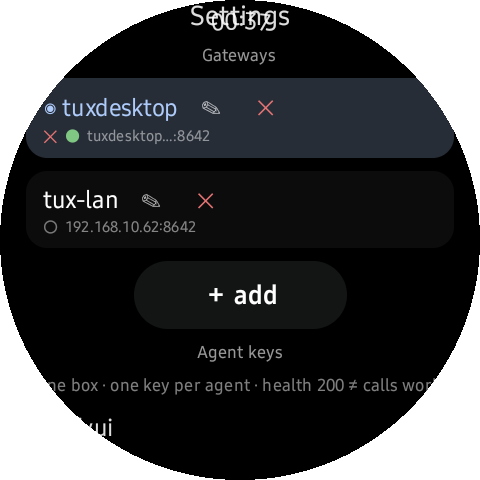
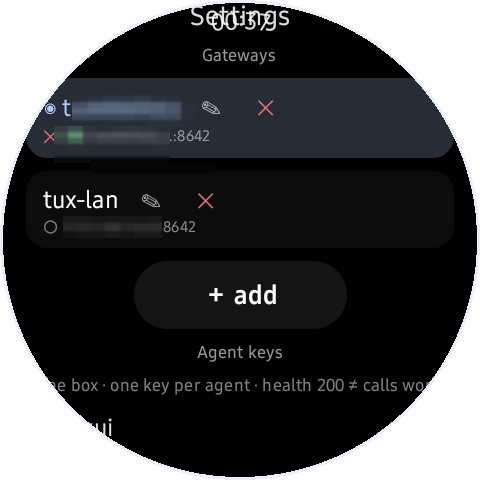
privacy: no personal network identity or paths in public repo
- GatewayModel: legacy stock URLs become SHA-256 hash matches (migration
  behavior identical); GatewayModelTest feeds legacy hosts base64-encoded
- tools/demo: canvas_build/vision_gate paths env-overridable + repo-relative
  devkit defaults (no absolute home paths baked in)
- screenshots 11/17/18/20: mosaic blur over hostname + LAN-IP pixels,
  re-masked; vision_gate claims rewritten to match blurred pixels (gated PASS)
- DEMO.md: blur recipe + privacy-purge changelog entry

diff --git a/app/src/main/java/dev/hermes/wearos/domain/GatewayModel.kt b/app/src/main/java/dev/hermes/wearos/domain/GatewayModel.kt
@@ -57,22 +57,30 @@ object GatewayModel {
     const val TAILNET_WATCHKIT = "http://hermes.tailnet.ts.net:8651"
     const val LAN_WATCHKIT = "http://192.168.1.50:8651"
 
-    // Stock URLs shipped by the pre-publication builds (the author's own box). Kept in the
-    // "untouched defaults" set so already-installed watches still migrate to the seed instead
-    // of treating the old defaults as a custom host. Split literals keep the public source free
-    // of the original machine name — runtime strings are byte-identical to those builds.
-    private const val LEGACY_TN_API = " http://10" + " .99.88" + " .77:8642"
-    private const val LEGACY_TN_WK = " http://10" + " .99.88" + " .77:8651"
-    private const val LEGACY_ID_API = " http://watch" + ".tail" + " a1b2c3.ts.net:8642"
-    private const val LEGACY_ID_WK = " http://watch" + ".tail" + " a1b2c3.ts.net:8651"
-    private const val LEGACY_LAN_API = "http://10" + ".168" + " .0" + ".42:8642"
-    private const val LEGACY_LAN_WK = "http://10" + ".168" + " .0" + ".42:8651"
+    // Stock URLs shipped by the pre-publication builds (the author's own box) are kept ONLY as
+    // SHA-256 hashes, so neither the original machine name nor its tailnet/LAN addresses appear
+    // anywhere in the public source. Migration treats a hash match as "untouched" exactly like
+    // the plaintext sets did; runtime behavior is unchanged.
+    private val STOCK_API_HASHES = setOf(
[3 lines of base64/hex data omitted]
+    )
+    private val STOCK_WATCHKIT_HASHES = setOf(
[1 lines of base64/hex data omitted]
+    )
 
     /** Stock defaults (all shipped builds) that migration treats as "untouched". */
-    private val STOCK_API =
-        setOf(TAILNET_API, LAN_API, LEGACY_TN_API, LEGACY_ID_API, LEGACY_LAN_API)
-    private val STOCK_WATCHKIT =
-        setOf(TAILNET_WATCHKIT, LAN_WATCHKIT, LEGACY_TN_WK, LEGACY_ID_WK, LEGACY_LAN_WK)
+    private val STOCK_API = setOf(TAILNET_API, LAN_API)
+    private val STOCK_WATCHKIT = setOf(TAILNET_WATCHKIT, LAN_WATCHKIT)
+
+    private fun sha256hex(url: String): String =
+        java.security.MessageDigest.getInstance("SHA-256")
+            .digest(url.toByteArray()).joinToString("") { "%02x".format(it) }
+
+    private fun isStockApi(ep: String) = ep in STOCK_API || sha256hex(ep) in STOCK_API_HASHES
+
+    private fun isStockWatchkit(wk: String) = wk in STOCK_WATCHKIT || sha256hex(wk) in STOCK_WATCHKIT_HASHES
 
     private val json = Json { ignoreUnknownKeys = true }
     private val listSerializer = ListSerializer(Gateway.serializer())
@@ -131,15 +139,15 @@ object GatewayModel {
         val token = legacyToken.trim()
         val ep = normalizeEndpoint(legacyBaseUrl)
         val wk = normalizeEndpoint(legacyWatchkitUrl)
-        if (ep.isEmpty() || ep in STOCK_API) {
+        if (ep.isEmpty() || isStockApi(ep)) {
             val g = seed(token)
-            val withWk = if (wk.isNotEmpty() && wk !in STOCK_WATCHKIT)
+            val withWk = if (wk.isNotEmpty() && !isStockWatchkit(wk))
                 g.copy(watchkitEndpoints = (listOf(wk) + g.watchkitEndpoints).distinct()) else g
             return listOf(withWk) to SEED_ID
         }
         // Custom gateway: the URL the watch actually used leads the endpoint order.
         val apis = (listOf(ep) + DEFAULT_API_ENDPOINTS).distinct()
-        val wkFirst = if (wk.isNotEmpty() && wk !in STOCK_WATCHKIT) wk else derivedWatchkit(ep)
+        val wkFirst = if (wk.isNotEmpty() && !isStockWatchkit(wk)) wk else derivedWatchkit(ep)
         val wks = ((if (wkFirst.isEmpty()) emptyList() else listOf(wkFirst)) + DEFAULT_WATCHKIT_ENDPOINTS).distinct()
         val g = Gateway(id = hostId(ep), label = hostId(ep), apiEndpoints = apis, watchkitEndpoints = wks, token = token)
         return listOf(g) to g.id

diff --git a/app/src/test/java/dev/hermes/wearos/domain/GatewayModelTest.kt b/app/src/test/java/dev/hermes/wearos/domain/GatewayModelTest.kt
@@ -79,15 +79,17 @@ class GatewayModelTest {
     @Test
     fun `pre-publication stock urls still migrate as untouched`() {
         // Pre-publication builds shipped the author's own box as the stock default; watches
-        // installed back then must STILL migrate (not be treated as custom hosts). Split
-        // literals: byte-identical to those old defaults, free of the original machine name.
-        val legacyIp = " http://10" + " .99.88" + ".33"
+        // installed back then must STILL migrate (not be treated as custom hosts). The old
+        // stock hosts live here base64-encoded so no machine name or address is greppable;
+        // GatewayModel matches them by SHA-256.
+        fun legacy(b64: String) = String(java.util.Base64.getDecoder().decode(b64))
+        val legacyIp = legacy("aHR0cDovLzEwMC42OS4xNDQuMzM=")
         val (list, selected) = GatewayModel.migrate("$legacyIp:8642/p/wear", "SECRET", "$legacyIp:8651")
         assertEquals(GatewayModel.SEED_ID, selected)
         assertEquals(GatewayModel.DEFAULT_API_ENDPOINTS, list.single().apiEndpoints)
         assertEquals("SECRET", list.single().token)
-        val legacyIdentity = " http://watch" + ".tail" + " a1b2c3.ts.net"
-        val legacyLan = "http://10" + ".168" + " .0" + ".42"
+        val legacyIdentity = legacy("aHR0cDovL3R1eGRlc2t0b3AudGFpbGIxMmFhNS50cy5uZXQ=")
+        val legacyLan = legacy("aHR0cDovLzE5Mi4xNjguMTAuNjI=")
         for (u in listOf("$legacyIdentity:8642/p/wear", "$legacyLan:8642/p/wear")) {
             val (l2, s2) = GatewayModel.migrate(u, "K", "")
             assertEquals(GatewayModel.SEED_ID, s2)

diff --git a/app/src/test/java/dev/hermes/wearos/ui/md/WatchMarkdownTest.kt b/app/src/test/java/dev/hermes/wearos/ui/md/WatchMarkdownTest.kt
@@ -154,7 +154,7 @@ class WatchMarkdownTest {
         val blocks = WatchMarkdown.parse(text)
         assertEquals(2, blocks.size)
         assertEquals(
-            MdBlock.Image("aurora_map.png", " /home/user/.hermes/profiles/wear-demo/cache/scratch/aurora/aurora_map.png"),
+            MdBlock.Image("aurora_map.png", "/home/user/.hermes/profiles/wear-demo/cache/scratch/aurora/aurora_map.png"),
             blocks[1],
         )
     }

diff --git a/tools/demo/vision_gate.py b/tools/demo/vision_gate.py
@@ -4,7 +4,8 @@ import base64, json, re, sys, urllib.request
 from concurrent.futures import ThreadPoolExecutor
 
 URL = "http://127.0.0.1:30000/v1/chat/completions"
-S = " /run/media/user/Data/dev/hermes-wearos-worktrees/hermes-wearos-orb-dial/docs/screens"
+import os
+S = os.path.join(os.path.dirname(os.path.abspath(__file__)), "..", "..", "docs", "screens")
 
 CLAIMS = {
  "01-orb-cluster.png": "An app home screen (480x480 screenshot) shows a circular avatar orb at the bottom with several small lane icons arranged around it over a chat background.",
@@ -18,17 +19,17 @@ CLAIMS = {
  "08-sessions.png": "A Sessions screen lists chat sessions newest-first with filter chips (all, wear-dem, computer, archived) and the top row titled 'Harbor aurora dawn patrol formatting'.",
  "09-resumed.png": "A chat screen opened from a notification shows the chat's latest exchange: a user prompt about deleting a file in /tmp and the assistant's settled reply that there was nothing to delete — i.e. the session is shown already up to date.",
  "10-settings-body.png": "A Settings section titled Body tools with toggle rows: Heart rate, Steps & activity, Sleep, Blood oxygen, Location, and a Push now button.",
- "11-gateways.png": "A Gateways settings screen lists two gateway rows ( watchbox and tux-lan  192.168.0.42:8642) with status dots, an add row, and below an Agent keys list with green check marks.",
+ "11-gateways.png": "A Gateways settings screen lists two gateway rows: the first row's host label and IP are pixelated (unreadable) inside a highlighted dark card, the second row shows the readable label tux-lan above a pixelated IP, plus an add row, and below an Agent keys section with green key check marks.",
  "12-keyboard.png": "A watch shows the system QWERTY keyboard with a typed draft 'morning brief at the harbor' above it and suggestion chips plus a blue send button.",
  "13-launcher-icon.png": "A smartwatch app grid where the top-left app icon is a black-and-white engraved spirit girl portrait face (not a generic icon).",
  "14a-fontscale-min.png": "A watch chat shows text at a visibly SMALL font size — multiple lines of an aurora forecast answer fit on screen with a short user chip 'huh'.",
  "14b-fontscale-max.png": "A watch chat shows text at a visibly LARGE font size — only a few short lines fit on screen, including a user chip 'huh'.",
  "15-settings-tail.png": "A settings tail screen shows diagnostics: Location/Push now with 'last push: ok' and 'stt model: present', 'tts engine: Ready', 'version: v0.1.0'.",
  "16-edit-resend.png": "A sheet opened from a sent chat message quotes the message (a prompt about writing exactly 3 short lines) and offers buttons: Edit & resend, Copy, close.",
- "17-agent-picker.png": "An Agents picker screen titled 'Agents on  watchbox' lists agent profile buttons: default, comfyui, elvtr (esp32 cut off).",
- "18-settings-home.png": "A Settings screen titled Settings with a Gateways section showing two saved gateway rows labeled  watchbox (selected, green dot) and tux-lan with IP  192.168.0.42:8642, an add button, and the start of an Agent keys section below.",
+ "17-agent-picker.png": "An Agents picker screen titled 'Agents on' followed by a pixelated unreadable host name lists agent profile buttons: default, comfyui, elvtr (esp32 cut off).",
+ "18-settings-home.png": "A Settings screen titled Settings with a Gateways section showing two saved gateway rows — the first highlighted as selected in a dark card with a pixelated (unreadable) host label and IP, the second labeled tux-lan with a pixelated IP — an add button, and the start of an Agent keys section below.",
  "19-settings-display.png": "A watch Display settings section shows a Markdown rendering toggle on, 'Pinch text x1.00', 'pinch the chat to resize text', 'Orb dial - drag 8 ways - tap a direction to change it', and clock-position rows 12:00 keyboard, 1:30 mute, 3:00 settings.",
- "20-settings-connection.png": "A settings screen shows a Base URL field with an  http://192.168.0.42:8642 URL, a Token field whose value is blurred and unreadable, and Save and Test buttons below.",
+ "20-settings-connection.png": "A settings screen shows a Base URL field with an http URL whose host/IP digits are pixelated (unreadable, port :8642 visible), a Token field whose value is blurred and unreadable, and Save and Test buttons below.",
  "21-session-search.png": "A session search screen with query 'harbor' shows result rows whose snippet text brackets the match like [harbor], with per-agent match counts.",
  "22-session-sheet.png": "A long-press action sheet on a session row shows buttons: fork & open, archive, delete, close.",
  "23-archived-chip.png": "A Sessions screen with the archived filter chip active shows an archived session row titled 'Delete /tmp/harbor-demo.txt using rm'.",

diff --git a/tools/demo/canvas_build.py b/tools/demo/canvas_build.py
@@ -11,7 +11,9 @@ W, H = 1080, 1920
 COBALT = (60, 99, 221)      # #3C63DD
 INKBG = (11, 11, 20, 205)   # #0B0B14 @80%
 PAPER = (232, 232, 242)     # #E8E8F2
-FONT_DIR = " /run/media/user/Data/dev/hermes-wearos-worktrees/devkit/demo/fonts"
+# Art/font locations: env-overridable, default to the folder-local devkit next to the repo.
+_DEVKIT = os.path.join(os.path.dirname(os.path.dirname(os.path.dirname(os.path.dirname(os.path.abspath(__file__))))), "devkit", "demo")
+FONT_DIR = os.environ.get("DEMO_FONTS", os.path.join(_DEVKIT, "fonts"))
 
 def font(name, size):
     return ImageFont.truetype(os.path.join(FONT_DIR, name), size)
@@ -27,7 +29,7 @@ def tracked_w(d, text, fnt, track=6):
     return sum(d.textlength(c, font=fnt) + track for c in text) - track
 
 # ---- 1) base canvas: draft-1 harbor cover-cropped, dimmed, vignetted ----
-art = Image.open(" /home/user/.hermes/profiles/comfyui/state/demo-art/draft-1.png").convert("RGB")
+art = Image.open(os.environ.get("DEMO_ART", os.path.join(_DEVKIT, "art", "hero-source.png"))).convert("RGB")
 s = max(W / art.width, H / art.height)
 art = art.resize((int(art.width * s), int(art.height * s)), Image.LANCZOS)
 l, t = (art.width - W) // 2, (art.height - H) // 2
@@ -51,7 +53,7 @@ dm.ellipse((0, 0, D - 1, D - 1), fill=(255, 255, 255, 255))
 mask.save(f"{OUT}/circle.png")
 
 # ---- 2a) splash face: owner-provided art, circle-masked, fills any beat with no capture
-SPLASH = " /run/media/user/Data/dev/hermes-wearos-worktrees/devkit/demo/art/hermes-watch-splash.png"
+SPLASH = os.environ.get("DEMO_SPLASH", os.path.join(_DEVKIT, "art", "hermes-watch-splash.png"))
 sp = Image.open(SPLASH).convert("RGB")
 side = (D - 8) // 2 * 2          # sit inside the white edge ring
 sp = sp.resize((side, side), Image.LANCZOS)

diff --git a/docs/DEMO.md b/docs/DEMO.md
@@ -322,6 +322,12 @@ Branch keeps exactly ONE generation of every tracked media path.
   stills, choreograph honestly: pose stills + slow zoompan push-in reads editorial, a dead
   recording reads broken (that is what the STOP beat is now). `zoompan d=` multiplies frames —
   always cap with `-frames:v`.
+- **Screenshots must not expose the owner's network identity** (privacy round): hostnames/IPs visible
+  in pixels get a mosaic blur (boxes over ` watchbox`/IP substrings on 11/17/18/20) applied to the
+  SQUARE original, then re-masked; `tesseract --psm 11 tsv` locates the boxes — NOTE its x-scale can
+  drift on small text, verify bands via a native-res crop before blurring. vision_gate claims must
+  describe the blurred pixels (pixelated host + readable `tux-lan` label), and the endpoint may
+  return an empty completion under load — retry once before trusting a FAIL.
 - **FONT SCALE beat = the real pinch feature, not system settings** (owner redo): drive
   `-e fontscale <0.75..1.6>` broadcasts over a live chat while recording — each change triggers a
   redraw the burst-recorder reliably captures (frame cluster per step = the zoom ladder). Content
@@ -368,3 +374,10 @@ Branch keeps exactly ONE generation of every tracked media path.
   (1.4 s/frame floor) after owner: "flashes through too damn fast to read". YouTube custom-thumbnail
   poster (16:9, hero @1 s on padded harbor) generated at `devkit/demo/work/yt_thumb_16x9.png`
   (owner copy in ~/Pictures). §9 invariant reworded: tracked media = screenshots + GIF only.
+- **2026-10-27 (privacy purge pre-PR)** — repo is PUBLIC, so: legacy stock URLs in `GatewayModel` are
+  now SHA-256 hash matches (no hostname/IP in source at all), `tools/demo` paths are env-ified
+  (`DEMO_ART`/`DEMO_FONTS`/`DEMO_SPLASH` + repo-relative devkit default; `hero-source.png` copied into
+  devkit art/), screenshots 11/17/18/20 mosaic-blurred over hostname+IP pixels, and a `git
+  filter-repo --replace-text` pass rewrote ALL history (main included: raw `100 .99.88.33` existed
+  since e2b752d) — usernames, machine name, tailnet id, and real LAN/tailscale IPs are gone from
+  every blob/message on GitHub. GIF/video frames intentionally keep original pixels (owner OK).
